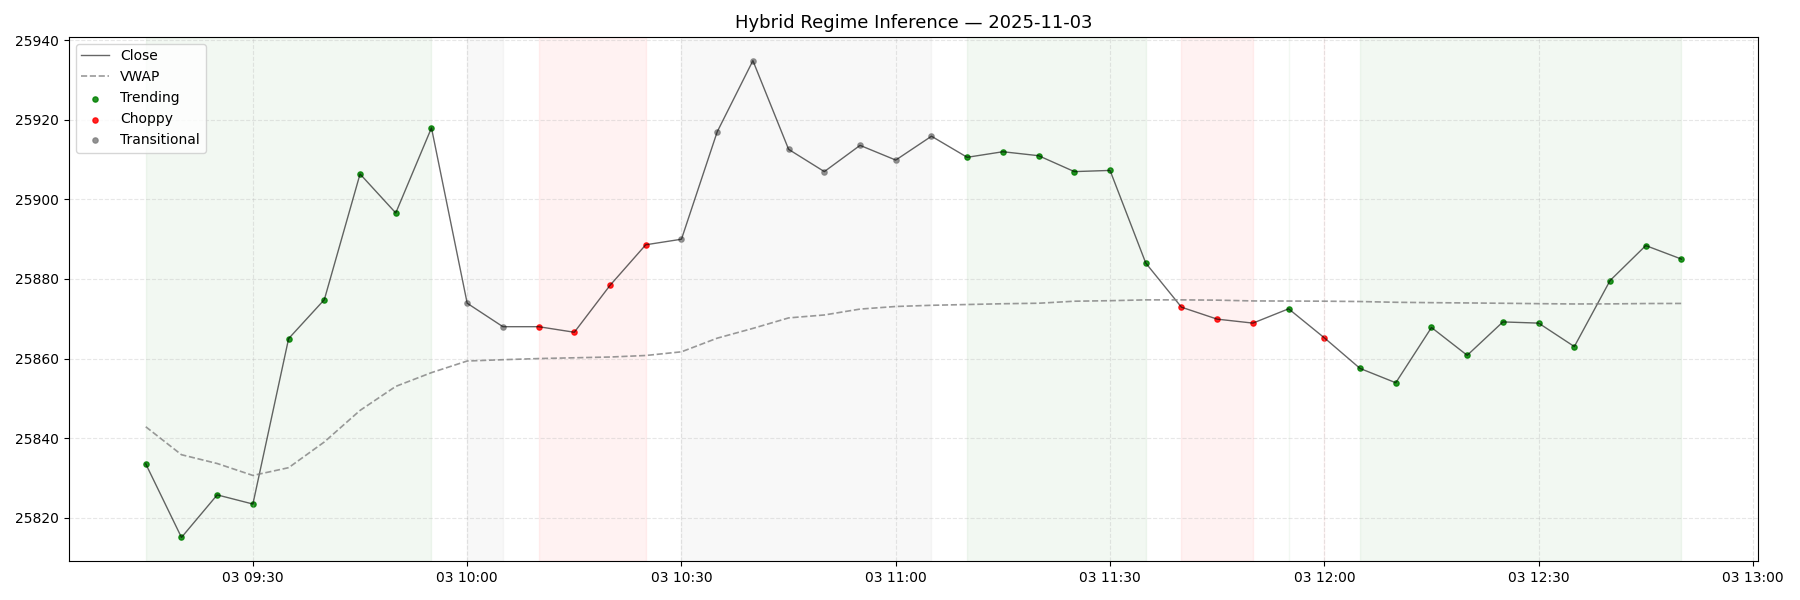
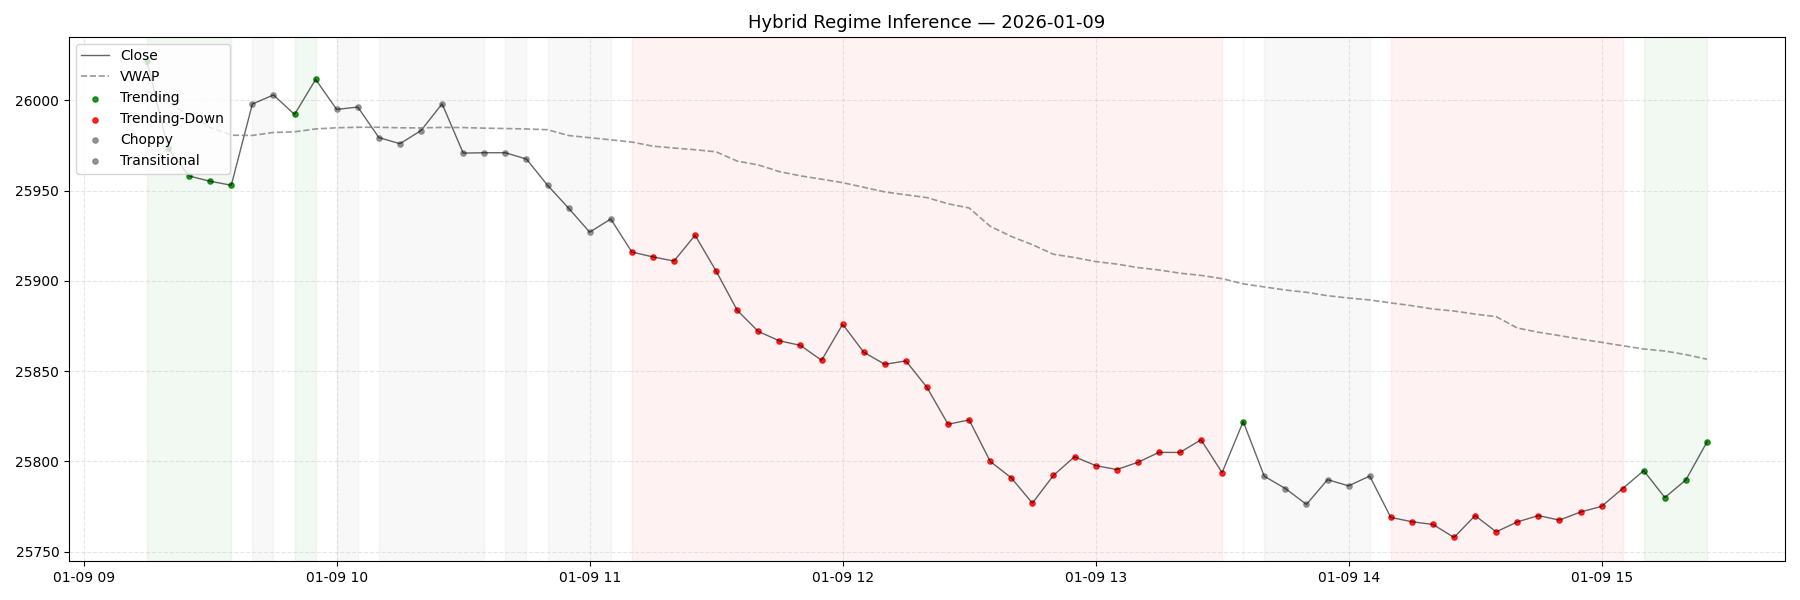
Revised Inference to detect Down Trend

diff --git a/usage_example.py b/usage_example.py
@@ -48,9 +48,12 @@ from config import API_KEY, API_HOST
 client = api(api_key=API_KEY, host=API_HOST)
 
 latest_regime = "Unknown" #Default initial regime
+# Persistent regime governor (IMPORTANT)
+regime_governor = infer.RegimeGovernor(min_hold=infer.MIN_HOLD_MIN)
 
-SYMBOL = "NIFTY25NOV25FUT"
+SYMBOL = "NIFTY27JAN26FUT"
 IST = timezone("Asia/Kolkata")
+TIMEFRAME = "5m"
 
 def regime_inference():
     global latest_regime
@@ -58,16 +61,10 @@ def regime_inference():
     now = datetime.now(IST)
     today = datetime.now(IST).strftime("%Y-%m-%d")
 
-    # --- Hybrid Rule: Force 1m until 10:30, else 5m ---
-    if now.time() < dtime(10,30):
-        timeframe = "1m"
-    else:
-        timeframe = "5m"  # usually "5m"
-
     df = client.history(
         symbol=SYMBOL,
         exchange="NFO",
-        interval=timeframe,
+        interval=TIMEFRAME,
         start_date=today,
         end_date=today
     )
@@ -102,7 +99,7 @@ def regime_inference():
     features = infer.compute_features(df)
 
     if features is None or len(features) < 10:
-        print(f"[RegimeGuard] Not enough bars yet ({len(df)}). Waiting for more data.")
+        print(f"[RegimeGuard] Early market hours and not enough bars yet ({len(df)}). Waiting for more data. Check from 10:30 AM IST onwards.")
         return  # exit gracefully, scheduler will retry on next cycle
 
     features = features.reindex(df.index).dropna()
@@ -116,7 +113,7 @@ def regime_inference():
 
     gov = infer.RegimeGovernor(min_hold=infer.MIN_HOLD_MIN)
     df["RegimeLabel"] = infer.infer_regime_multiscale(
-        X_scaled, df.index, infer.hmmf, gov, infer.clusterer, wlabels
+        X_scaled, df.index, infer.hmmf, regime_governor, infer.clusterer, wlabels
     )
 
     # --------------------------------------------------
@@ -146,26 +143,34 @@ def core_step():
     print(f"\nLatest regime: {latest_regime}")
     print("⎯" * 100)
 
-    if latest_regime == "Trending":
-        msg = "Regime : Trending → proceed with trend strategy"
-        print(msg) 
-      
-    elif latest_regime == "Transitional":
-        msg = "Regime : Transitional → halt "
+    # ---- TREND REGIMES (direction-agnostic at gate level) ----
+    if latest_regime in ("Trending", "Trending-Down"):
+        msg = f"Regime : {latest_regime} → proceed with trend strategy"
         print(msg)
-        #return
-    
-    elif latest_regime in ("Range", "Mild-Uptrend"):
-        msg = "Regime : Range/Mild-Uptrend → proceeding with range strategy"
-        print(msg) 
+        # trend_strategy(direction="down" if latest_regime.endswith("Down") else "up")
+        return
 
-    elif latest_regime == "Choppy":
-        msg = "Regime : Choppy → skip / hold "
+    # ---- TRANSITIONAL (explicit block) ----
+    elif latest_regime == "Transitional":
+        msg = "Regime : Transitional → halt (no new risk)"
         print(msg)
-        return 
-    
+        return
+
+    # ---- RANGE / MILD TREND ----
+    elif latest_regime in ("Range", "Mild-Uptrend", "Mild-Downtrend"):
+        msg = f"Regime : {latest_regime} → proceed with range / mean-reversion strategy"
+        print(msg)
+        return
+
+    # ---- CHOPPY ----
+    elif latest_regime == "Choppy":
+        msg = "Regime : Choppy → skip / hold"
+        print(msg)
+        return
+
+    # ---- FALLBACK ----
     else:
-        msg = "Unknown regime label."
+        msg = f"Unknown regime label: {latest_regime} → default hold"
         print(msg)
         return
 

diff --git a/inference_plotter.py b/inference_plotter.py
@@ -26,7 +26,8 @@ import hybrid_regime_infer as infer  # ← use module namespace directly
 # --------------------------------------------------
 IST = timezone("Asia/Kolkata")
 client = api(api_key=API_KEY, host=API_HOST)
-SYMBOL = "NIFTY25NOV25FUT"
+SYMBOL = "NIFTY27JAN26FUT"
+TIMEFRAME = "5m"
 now = datetime.now(IST)
 #today = datetime.now(IST).strftime("%Y-%m-%d")
 
@@ -35,7 +36,7 @@ now = datetime.now(IST)
 # --------------------------------------------------
 # Toggle between fixed test date and today's date
 USE_FIXED_DATE = True          # set to False for live runs
-DAYS_AGO = 8                   # how many days back for testing
+DAYS_AGO = 2                   # how many days back for testing
 
 if USE_FIXED_DATE:
     test_date = (now - timedelta(days=DAYS_AGO))
@@ -48,17 +49,10 @@ else:
 print(f"\n[HYBRID DIAGNOSTICS] Fetching {SYMBOL} for {today}")
 
 
-# --- Hybrid Rule: Force 1m until 10:30, else 5m ---
-if now.time() < dtime(10,30):
-    timeframe = "1m"
-else:
-    timeframe = "5m"  # usually "5m"
-
-
 df = client.history(
     symbol=SYMBOL,
     exchange="NFO",
-    interval=timeframe,
+    interval=TIMEFRAME,
     start_date=today,
     end_date=today,
 )
@@ -71,23 +65,44 @@ df = client.history(
 #         raise ValueError("No data from OpenAlgo. Ensure API key and symbol are correct.")
 #     df = pd.DataFrame(candles)
 
+if df is None:
+    raise RuntimeError(
+        f"No data from Open Algo({len(df)} possibly a market holiday)."
+    )
 
-# if df.empty:
-#     raise ValueError("No data from OpenAlgo.")
+# If API returned dict, extract candles
+if isinstance(df, dict):
+    candles = df.get("data") or df.get("result", {}).get("data", [])
 
+    if not candles:
+        raise RuntimeError(
+            f"No data from OpenAlgo (0 candles) — possibly a market holiday."
+        )
+
+    df = pd.DataFrame(candles)
+
+
+elif len(df) > 0 and len(df) < 10:
+    raise RuntimeError(
+        f"[Hybrid] Insufficient raw bars for regime inference "
+        f"({len(df)} bars). Likely early market hours."
+    )
 
 # --- Handle API returning dict instead of DataFrame ---
 if isinstance(df, dict):
     candles = df.get("data") or df.get("result", {}).get("data", [])
     if not candles:
         print(f"[Hybrid] No data from OpenAlgo. Ensure API_KEY is edited and SYMBOL are correct.")
-        sys.exit(0)
+        raise RuntimeError(
+        "[Hybrid] No data from OpenAlgo. Check API_KEY, SYMBOL are correct."
+    )
     df = pd.DataFrame(candles)
 
 # --- Empty or invalid data guard ---
 if df is None or df.empty:
     print(f"[Hybrid] Empty dataset for {SYMBOL} — exiting gracefully.")
-    sys.exit(0)
+    raise RuntimeError(f"[Hybrid] Empty dataset for {SYMBOL}.")
+    #sys.exit(0)
 
 # --------------------------------------------------
 # DATA NORMALIZATION
@@ -170,9 +185,11 @@ print(dominant.head(3))
 # --------------------------------------------------
 colors = {
     "Trending": "green",
+    "Trending-Down": "red",
     "Mild-Uptrend": "lime",
+    "Mild-Downtrend": "orange",
     "Range": "gold",
-    "Choppy": "red",
+    "Choppy": "gray",
     "Transitional": "gray",
 }
 

diff --git a/hybrid_regime_infer.py b/hybrid_regime_infer.py
@@ -33,6 +33,12 @@ MODEL_FILE_WASS = os.path.join(DATA_DIR, "regime_wasserstein.pkl")
 SCALER_FILE     = os.path.join(DATA_DIR, "regime_scaler.pkl")
 STATE_TO_LABEL  = {0: "Trending", 1: "Range", 2: "Choppy"}
 
+# Directional trend override thresholds (tune with replay)
+TREND_SLOPE_Z_THR = 0.55     # abs(z-slope)
+TREND_R2_Z_THR    = 0.10     # z-r2 (scaled); keep low, rely on combo
+TREND_ADX_Z_THR   = -0.10    # allow mild ADX; adjust if too permissive
+
+
 MIN_HOLD_MIN    = 20
 IST = timezone("Asia/Kolkata")
 
@@ -200,9 +206,16 @@ def infer_regime_multiscale(X_scaled, df_index, model, governor, clusterer, wlab
         local = [regimes_by_window[w][i] for w in windows]
         hmm_label = governor.decide_multiscale(local, df_index[i])
         wlab = wlabels[i]
+        slope_z = float(X_scaled[i, 1])
+        r2_z    = float(X_scaled[i, 2])
+        adx_z   = float(X_scaled[i, 3])
+
+        def is_trend_override():
+            return (abs(slope_z) >= TREND_SLOPE_Z_THR) and (r2_z >= TREND_R2_Z_THR) and (adx_z >= TREND_ADX_Z_THR)
+        
         if wlab is not None:
             if hmm_label == "Range" and wlab == 0:
-                final_label = "Mild-Uptrend"
+                final_label = "Mild-Uptrend" if slope_z >= 0 else "Mild-Downtrend"
             elif hmm_label == "Trending" and wlab == 2:
                 final_label = "Transitional"
             elif hmm_label == "Choppy" and wlab == 1:
@@ -215,6 +228,17 @@ def infer_regime_multiscale(X_scaled, df_index, model, governor, clusterer, wlab
             final_label = "Range"
         elif final_label == "Transitional" and wlab == 2:
             final_label = "Choppy"
+        
+        # High-confidence directional override:
+        # if model says choppy/range but structure screams "trend", flip it.
+        if final_label in ("Choppy", "Range", "Transitional") and is_trend_override():
+            final_label = "Trending" if slope_z >= 0 else "Trending-Down"
+
+        # Optional: if you want symmetric explicit up label too:
+        if final_label == "Trending" and slope_z < 0:
+            # only if you really want the label explicit
+            final_label = "Trending-Down"
+            
         final_labels.append(final_label)
     return final_labels
 

diff --git a/hybrid_wes_hmm_trainer.py b/hybrid_wes_hmm_trainer.py
@@ -78,7 +78,7 @@ def compute_features(df):
     Matches inference version exactly.
     """
     df["return"] = np.log(df["close"] / df["close"].shift(1))
-    df["adx"] = talib.ADX(df["high"], df["low"], df["close"], 14)
+    df["adx"] = talib.ADX(df["high"], df["low"], df["close"], 7)
     df["atr"] = talib.ATR(df["high"], df["low"], df["close"], 14)
     df["range_ratio"] = (df["high"] - df["low"]) / df["close"]
 
@@ -104,9 +104,9 @@ def compute_features(df):
 
 
     # --- Trend Amplification (moderate) ---
-    df["slope"] *= 1.6
-    df["r2"]    *= 1.2
-    df["adx"]   *= 1.4
+    df["slope"] *= 2.0
+    df["r2"]    *= 1.3
+    df["adx"]   *= 1.6
 
     df.fillna(method="bfill", inplace=True)
     df.fillna(method="ffill", inplace=True)
